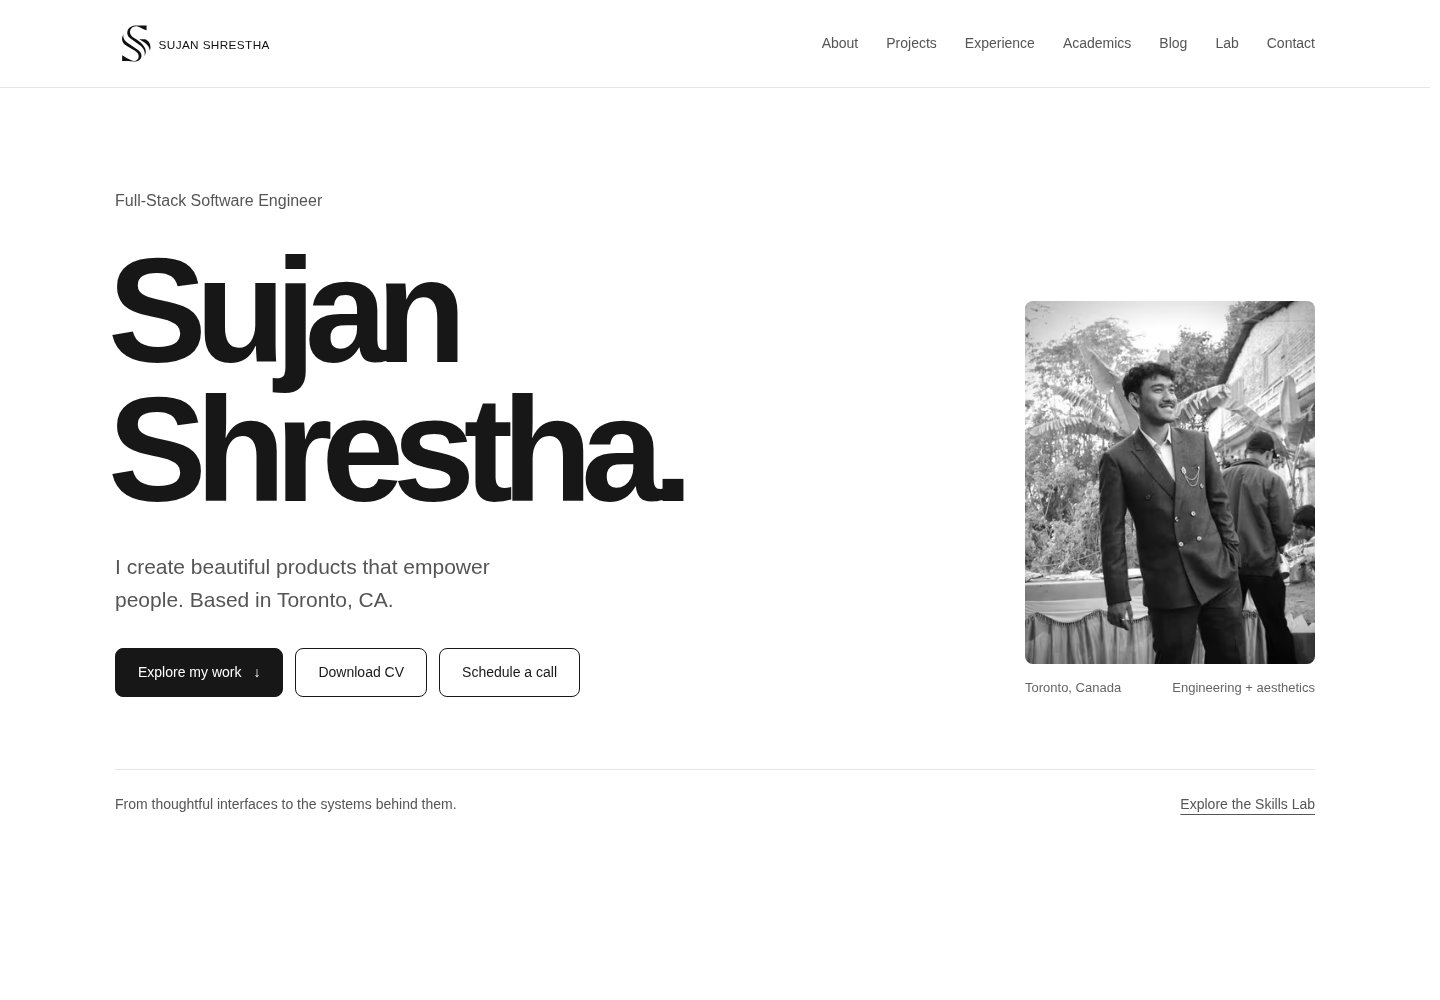
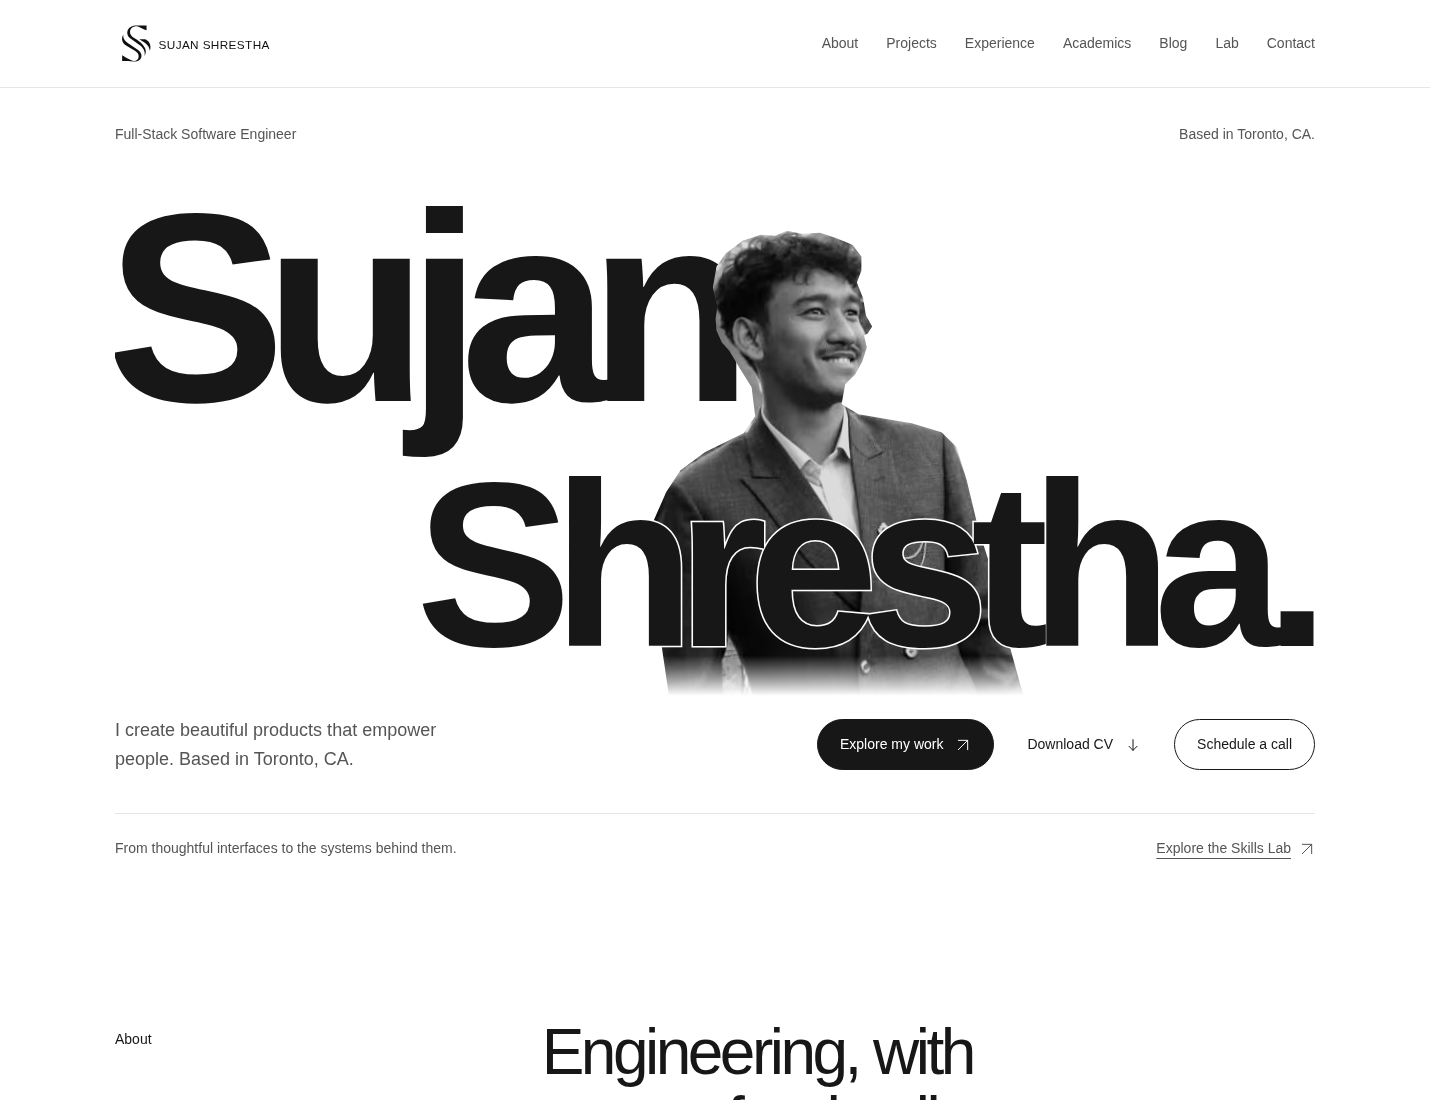
docs: record homepage visual review and responsive verification

diff --git a/docs/homepage-refinement.md b/docs/homepage-refinement.md
@@ -1,0 +1,35 @@
+# Homepage refinement: portrait and type
+
+The owner found the initial clean folio too generic, specifically rejecting the separate rectangular right-hand portrait. The new direction preserves the neutral identity and every portfolio fact while giving the home opening a more individual composition and limited motion.
+
+## Concepts and decision
+
+1. **Integrated portrait and type.** The existing portrait becomes an unframed foreground silhouette between two large name lines. The surname crosses the image with a white keyline protecting its dark letterforms. Role/location, original introduction and actions remain distinct readable areas. This makes the actual person and name one composition rather than adjacent blocks.
+2. **Photographic editorial opening.** A full-width desaturated source photograph with typography at its edges. This retains more environmental context, but the busy original background makes text contrast and mobile cropping harder to control.
+
+The lead selected the first direction after independent visual/accessibility critique. The original source photo is used directly with a CSS silhouette crop. An experimental generated cutout was rejected during independent review because it reconstructed facial and fabric detail. No generated portrait is shipped.
+
+## Responsive and motion contract
+
+Desktop layers the portrait, first name and outlined surname on a shared canvas. Tablet keeps the composition with less scale and moves controls into a clean subsequent row. Mobile positions the portrait between the name lines, with summary/actions in normal flow; there is no mandatory full-screen height or tiny scaled desktop card.
+
+One short transform-only entrance introduces the canvas. Fine-pointer devices get at most 8px/5px of portrait movement; pointer work pauses offscreen and is removed for reduced motion. Content remains rendered and visible without JavaScript. No custom cursor, marquee, badge animation, scroll hijacking or animation library is introduced.
+
+## Verification and lead review
+
+Validated against the production Next.js build on 2026-10-22:
+
+- `npm run lint`, `npm test` (74 passed), and `npm run build` passed. Design token lint reported no errors/warnings; premium strict audit reported no findings.
+- The existing public browser suite passed all eight groups: five routes, keyboard navigation, no-JavaScript facts, catalog security, all four ZIP formats, preview, search/reload and mobile navigation. Authenticated owner upload tests were not rerun for this presentation-only change; the public server has owner access disabled.
+- Additional browser checks covered 320/375/640/641/720/768/1024/1440px: no horizontal overflow, full name bounds fit, original CV target retained, schedule dialog opens from keyboard and restores focus after Escape. Entrance finishes once; pointer movement stays within 8px/5px; changing reduced-motion preference resets movement and removes animation.
+- Axe reported zero WCAG A/AA violations at 375/768/1440px. Manual review corrected blended surname contrast with a white keyline, rejected a generated portrait that reconstructed facial details, tightened the original-photo silhouette, and fixed the mobile location wrap.
+- One local mobile Lighthouse run scored performance/accessibility/best-practices/SEO **100/100/100/100**, with LCP **1.7s**, CLS **0**, and total blocking time **40ms**. These are synthetic local observations, not field Core Web Vitals or a compliance certification.
+
+Lead sign-off: the portrait and name now share an unframed composition, the source face remains authentic, and the featured-work section gives the homepage a distinct second movement. All original biography, project facts, routes and actions remain available. No production deployment or main-branch merge is part of this update.
+
+## Review images
+
+- [Desktop hero](screenshots/home-desktop.png), [tablet hero](screenshots/home-tablet.png), [mobile hero](screenshots/home-mobile.png)
+- [Desktop work section](screenshots/home-work-desktop.png), [mobile work section](screenshots/home-work-mobile.png)
+
+Raw browser and measurement output is available in the ignored workspace directories `qa-artifacts/homepage-refinement-public` and `qa-artifacts/homepage-refinement-measurements`.

diff --git a/docs/screenshots/README.md b/docs/screenshots/README.md
@@ -5,8 +5,12 @@ Captured from the final production build in Chromium, with reduced motion. These
 - [Home, desktop 1440px](home-desktop.png)
 - [Home, tablet 768px](home-tablet.png)
 - [Home, mobile 375px](home-mobile.png)
+- [Home work section, desktop 1440px](home-work-desktop.png)
+- [Home work section, mobile 375px](home-work-mobile.png)
 - [Skills Lab, desktop 1440px](lab-desktop.png)
 - [Skills Lab, mobile 375px](lab-mobile.png)
 - [Article, desktop 1440px](article-desktop.png)
+
+Home captures were refreshed for the [portrait/type refinement](../homepage-refinement.md). Lab and article captures document the preceding full redesign.
 
 The public live website is a separate deployment. These screenshots document `feat/redesign`; no production deployment is implied.
